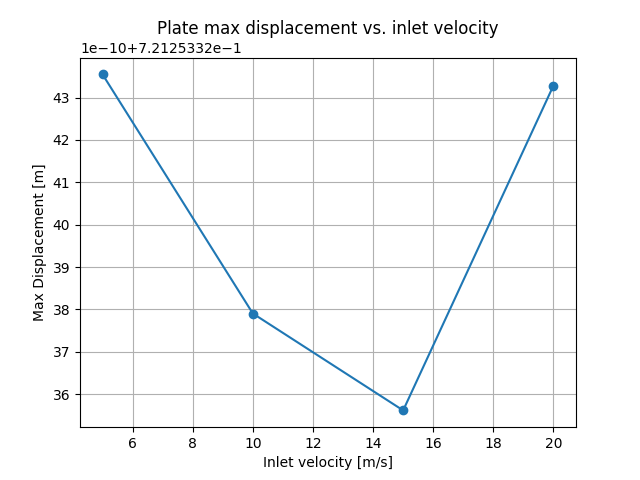
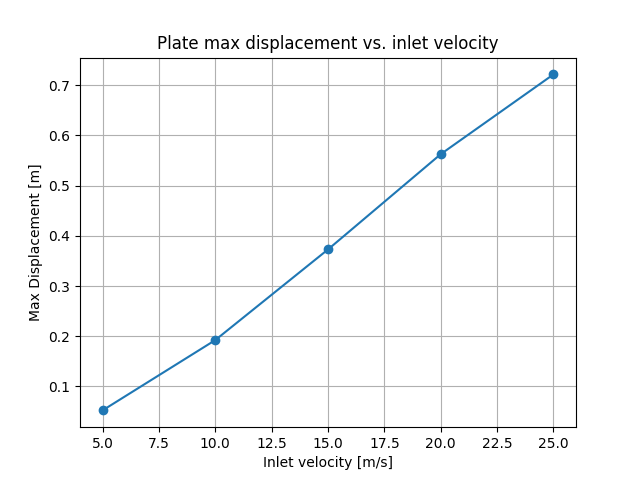
fix issue with parametric e.g. - Fluent case not being saved!

diff --git a/doc/source/examples/00-systemcoupling/parametric_sweep_vel.py b/doc/source/examples/00-systemcoupling/parametric_sweep_vel.py
@@ -111,7 +111,7 @@ def set_inlet_velocity(working_dir, inlet_velocity):
       session.setup.boundary_conditions.velocity_inlet[
           "wall_inlet"
       ].vmag.value = inlet_velocity
-      session.tui.file.write_case(case_file)
+      session.tui.file.write_case(case_file, "yes")
 
   print(f"Inlet velocity is set to {inlet_velocity}")
 
@@ -171,7 +171,7 @@ def extract_max_displacement(working_dir):
   displacements = model.results.displacement()
   fields = displacements.outputs.fields_container()
   value = max([v[0] for v in fields[0].data])
-  print("Max displacement value = " + str(value))
+  print(f"Max displacement value = {value}")
   return value
 
 # %%
@@ -213,7 +213,7 @@ def plot(working_dir, x, y):
 # are used to fill in the corresponding values of the ``y`` array.
 # Finally, call the ``plot()`` function to generate a plot from the arrays.
 
-x = np.array([5.0, 10.0, 15.0, 20.0])
+x = np.array([5.0, 10.0, 15.0, 20.0, 25.0])
 y = np.array([0.0] * len(x))
 
 working_dir = setup_working_directory()

diff --git a/examples/00-systemcoupling/parametric_sweep_vel.py b/examples/00-systemcoupling/parametric_sweep_vel.py
@@ -111,7 +111,7 @@ def set_inlet_velocity(working_dir, inlet_velocity):
       session.setup.boundary_conditions.velocity_inlet[
           "wall_inlet"
       ].vmag.value = inlet_velocity
-      session.tui.file.write_case(case_file)
+      session.tui.file.write_case(case_file, "yes")
 
   print(f"Inlet velocity is set to {inlet_velocity}")
 
@@ -171,7 +171,7 @@ def extract_max_displacement(working_dir):
   displacements = model.results.displacement()
   fields = displacements.outputs.fields_container()
   value = max([v[0] for v in fields[0].data])
-  print("Max displacement value = " + str(value))
+  print(f"Max displacement value = {value}")
   return value
 
 # %%
@@ -213,7 +213,7 @@ def plot(working_dir, x, y):
 # are used to fill in the corresponding values of the ``y`` array.
 # Finally, call the ``plot()`` function to generate a plot from the arrays.
 
-x = np.array([5.0, 10.0, 15.0, 20.0])
+x = np.array([5.0, 10.0, 15.0, 20.0, 25.0])
 y = np.array([0.0] * len(x))
 
 working_dir = setup_working_directory()

diff --git a/doc/source/examples/00-systemcoupling/parametric_sweep_vel.rst b/doc/source/examples/00-systemcoupling/parametric_sweep_vel.rst
@@ -158,7 +158,7 @@ the ``solve_coupled_analysis`` command in a sequence of analyses.
           session.setup.boundary_conditions.velocity_inlet[
               "wall_inlet"
           ].vmag.value = inlet_velocity
-          session.tui.file.write_case(case_file)
+          session.tui.file.write_case(case_file, "yes")
 
       print(f"Inlet velocity is set to {inlet_velocity}")
 
@@ -244,7 +244,7 @@ maximum displacement value in the solution.
       displacements = model.results.displacement()
       fields = displacements.outputs.fields_container()
       value = max([v[0] for v in fields[0].data])
-      print("Max displacement value = " + str(value))
+      print(f"Max displacement value = {value}")
       return value
 
 
@@ -325,7 +325,7 @@ Finally, call the ``plot()`` function to generate a plot from the arrays.
 .. code-block:: default
 
 
-    x = np.array([5.0, 10.0, 15.0, 20.0])
+    x = np.array([5.0, 10.0, 15.0, 20.0, 25.0])
     y = np.array([0.0] * len(x))
 
     working_dir = setup_working_directory()
@@ -400,30 +400,43 @@ Finally, call the ``plot()`` function to generate a plot from the arrays.
             symmetry2
             symmetry1
     Done.
+
+    Writing to MILIDBOYD1:"C:\Users\idboyd\AppData\Local\ansys_systemcoupling_core\ansys_systemcoupling_core\examples\Fluent\case.cas.h5" in NODE0 mode and compression level 1 ...
+           58065 cells,     1 zone  ...
+          187138 faces,     8 zones ...
+           71280 nodes,     1 zone  ...
+      Done.
+    Done.
     Inlet velocity is set to 5.0
     Setting up the coupled analysis.
     Solving the coupled analysis. This may take a while....
     ...done.
     Extracting max displacement value
-    Max displacement value = 0.7212533243547633
+    Max displacement value = 0.052365485950746894
     Inlet velocity is set to 10.0
     Setting up the coupled analysis.
     Solving the coupled analysis. This may take a while....
     ...done.
     Extracting max displacement value
-    Max displacement value = 0.7212533237905043
+    Max displacement value = 0.19232826989790763
     Inlet velocity is set to 15.0
     Setting up the coupled analysis.
     Solving the coupled analysis. This may take a while....
     ...done.
     Extracting max displacement value
-    Max displacement value = 0.7212533235618391
+    Max displacement value = 0.37276751732600016
     Inlet velocity is set to 20.0
     Setting up the coupled analysis.
     Solving the coupled analysis. This may take a while....
     ...done.
     Extracting max displacement value
-    Max displacement value = 0.7212533243283991
+    Max displacement value = 0.5624418883785633
+    Inlet velocity is set to 25.0
+    Setting up the coupled analysis.
+    Solving the coupled analysis. This may take a while....
+    ...done.
+    Extracting max displacement value
+    Max displacement value = 0.7212533237739663
 
 
 
@@ -431,7 +444,7 @@ Finally, call the ``plot()`` function to generate a plot from the arrays.
 
 .. rst-class:: sphx-glr-timing
 
-   **Total running time of the script:** ( 11 minutes  55.096 seconds)
+   **Total running time of the script:** ( 14 minutes  59.902 seconds)
 
 
 .. _sphx_glr_download_examples_00-systemcoupling_parametric_sweep_vel.py:

diff --git a/doc/source/examples/00-systemcoupling/sg_execution_times.rst b/doc/source/examples/00-systemcoupling/sg_execution_times.rst
@@ -6,10 +6,10 @@
 
 Computation times
 =================
-**11:55.096** total execution time for **examples_00-systemcoupling** files:
+**14:59.902** total execution time for **examples_00-systemcoupling** files:
 
 +--------------------------------------------------------------------------------------------------+-----------+--------+
-| :ref:`sphx_glr_examples_00-systemcoupling_parametric_sweep_vel.py` (``parametric_sweep_vel.py``) | 11:55.096 | 0.0 MB |
+| :ref:`sphx_glr_examples_00-systemcoupling_parametric_sweep_vel.py` (``parametric_sweep_vel.py``) | 14:59.902 | 0.0 MB |
 +--------------------------------------------------------------------------------------------------+-----------+--------+
 | :ref:`sphx_glr_examples_00-systemcoupling_oscillating_plate.py` (``oscillating_plate.py``)       | 00:00.000 | 0.0 MB |
 +--------------------------------------------------------------------------------------------------+-----------+--------+
